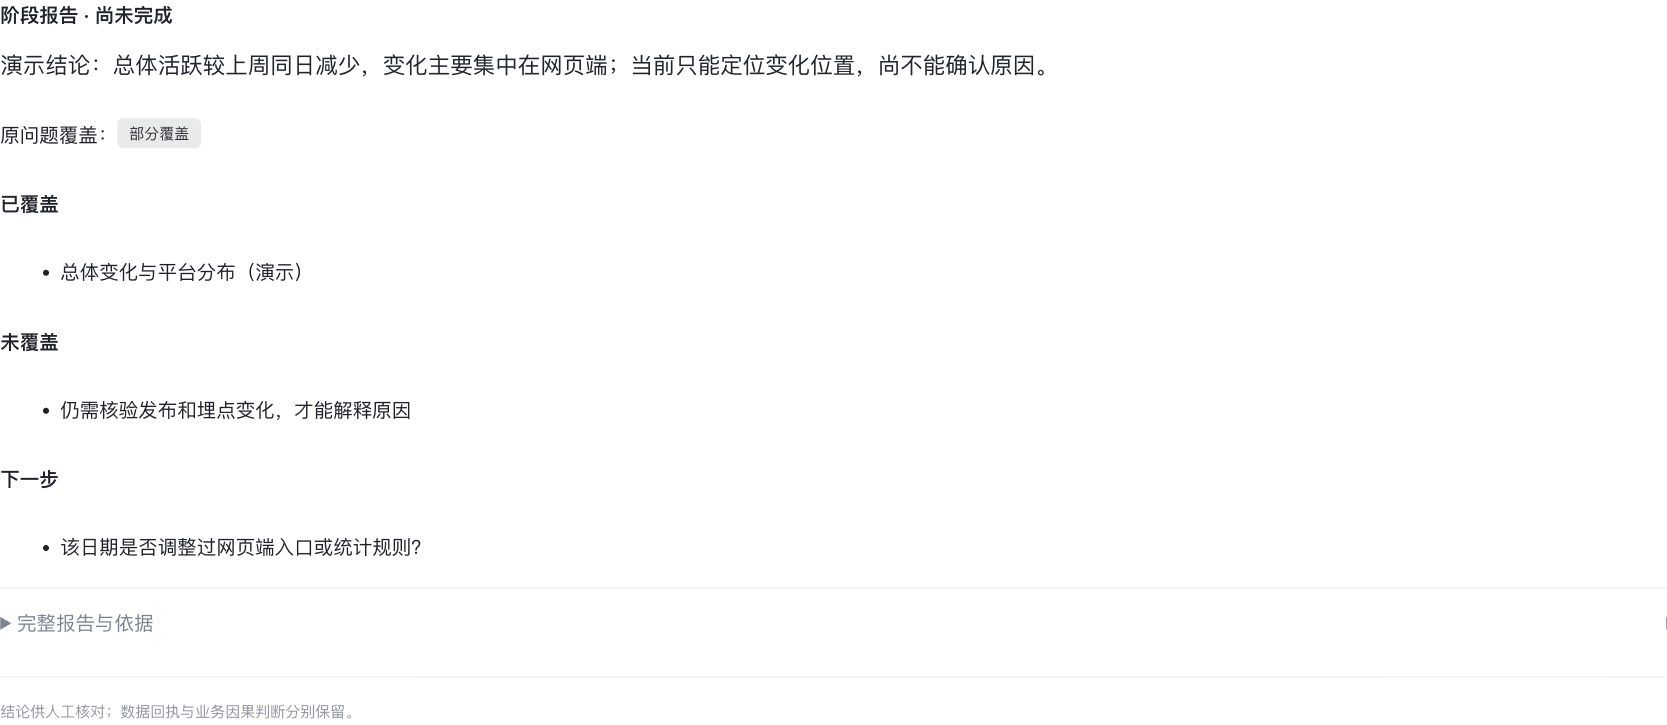
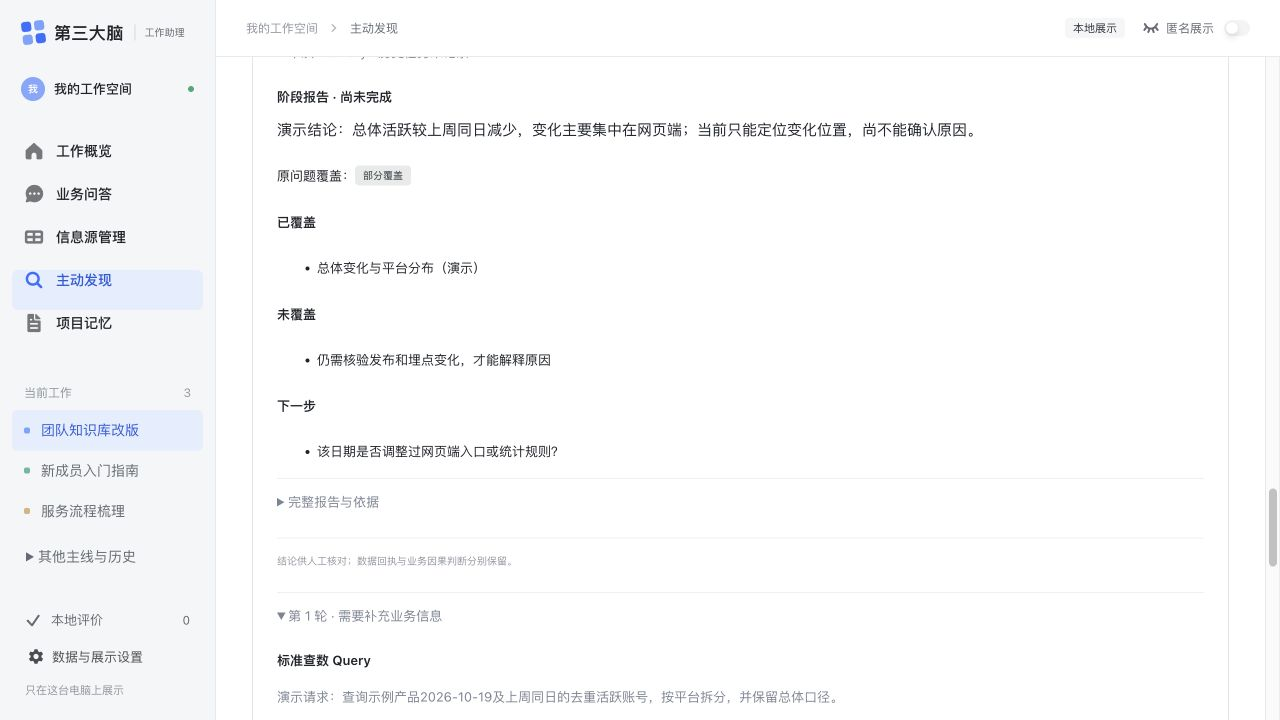
docs: refresh current UI screenshots with synthetic data (#7)

diff --git a/README.md b/README.md
@@ -83,11 +83,13 @@ flowchart LR
 
 ## 产品界面
 
-以下画面使用个人原型界面加载完全虚构的示例数据。项目、角色、看板曲线、查询结果和报告均为示意，不含真实业务记录，未调用模型或查数服务。
+以下画面于 2026 年 10 月 21 日使用当前个人原型界面和完全虚构的 mock 数据重新截图。项目、成员、看板曲线、查询结果、报告和候选记忆均为示意；没有连接办公数据、模型或查数服务。截图展示个人原型的最新样式，公开版可运行范围见下文「公开版 Alpha」。
 
 ### 工作概览
 
-![工作概览：演示主线、进展与待跟进事项](docs/product/assets/screenshots/overview.png)
+紧急、待决策、待本人行动等标签使用不同颜色，区分当前工作与后续关注事项。
+
+![工作概览：演示主线、优先级与待跟进事项](docs/product/assets/screenshots/overview.png)
 
 ### 业务问答与依据回查
 
@@ -95,7 +97,13 @@ flowchart LR
 
 证据按段落、列表、加粗和链接呈现。历史问答用节点、角色标签和提问高亮区分原始提问、历史答复与后续追问，时间和来源作为辅助信息。发言人、@提及对象与引用回复使用一致的人物标识，点击回复对象可回到被引用的原话；公开示意统一使用虚构成员。截断资料明确标注不完整；匿名展示保守隐藏无法完整解析的正文。
 
-![证据富文本与分层时间线：完全虚构的界面示意](docs/product/assets/screenshots/evidence.png)
+![证据原文：当前界面的段落、人物提及与来源定位](docs/product/assets/screenshots/evidence.png)
+
+### 历史工单与引用回复
+
+同一个问题保留提问、引用看板、答复和后续追问。虚构成员的发言人与 @对象保持一致，明确引用的回复可以定位到对应原话。
+
+![历史工单：虚构成员、引用原图与问答时间线](docs/product/assets/screenshots/history.png)
 
 [查看可运行的通用展示示意](demo/evidence-timeline.html)（运行 `npm run demo` 后打开 `/evidence-timeline.html`）。此页只验证展示交互，不连接私人记录或分析服务，也不表示完整历史工单已进入公开 Alpha。
 
@@ -112,6 +120,14 @@ flowchart LR
 阶段报告区分已回答和仍缺少的部分，保留下一步需要人工补充的事实。
 
 ![主动发现：演示阶段报告与待补充信息](docs/product/assets/screenshots/discovery-report.png)
+
+### 项目记忆
+
+从记忆清单查看历史问题、交付资料、确认回复、Memory 正文和适用范围，并区分待核验与已确认。下图为待核验的候选记忆，实际注入为 0 个任务；展示记录不代表记忆已经有效。
+
+![项目记忆：虚构问题的交付依据、候选记忆与适用范围](docs/product/assets/screenshots/memory.png)
+
+[截图范围与数据说明](docs/product/screenshots.md)。
 
 ## 如何评估
 

diff --git a/docs/product/screenshots.md b/docs/product/screenshots.md
@@ -1,0 +1,31 @@
+# 产品截图
+
+2026 年 10 月 21 日使用当前个人原型页面重新截图。所有内容为手工编写的 mock 数据，加载真实界面组件；未连接办公数据、模型或查数服务。公开版的可运行能力以 README 中「公开版 Alpha」为准。
+
+| 页面 | 示意内容 |
+| --- | --- |
+| 工作概览 | 知识库、入门指南等虚构主线及优先级标签 |
+| 业务问答 | 示例问题、已有回答与依据入口 |
+| 依据原文 | 原始段落、人物提及和来源定位 |
+| 历史工单 | 成员 A／B 的提问、引用图、答复和追问 |
+| Agent 流程 | 唯一数值判断、单次查数、多轮分析、人工补充 |
+| 看板原图 | 虚构趋势图及分开的统计日和推送时间 |
+| 阶段报告 | 部分覆盖、未确认原因和下一步 |
+| 项目记忆 | 待核验候选、历史交付与适用范围，实际注入为 0 |
+
+图中的 12,000、10,800 和相关日期仅用于说明交互，不来自真实业务。示例身份不映射真实成员；没有真实文档链接。
+
+## 截图校验值
+
+全部为 1280 × 720 的 PNG 文件。
+
+| 文件 | SHA-256 |
+| --- | --- |
[8 lines of base64/hex data omitted]
